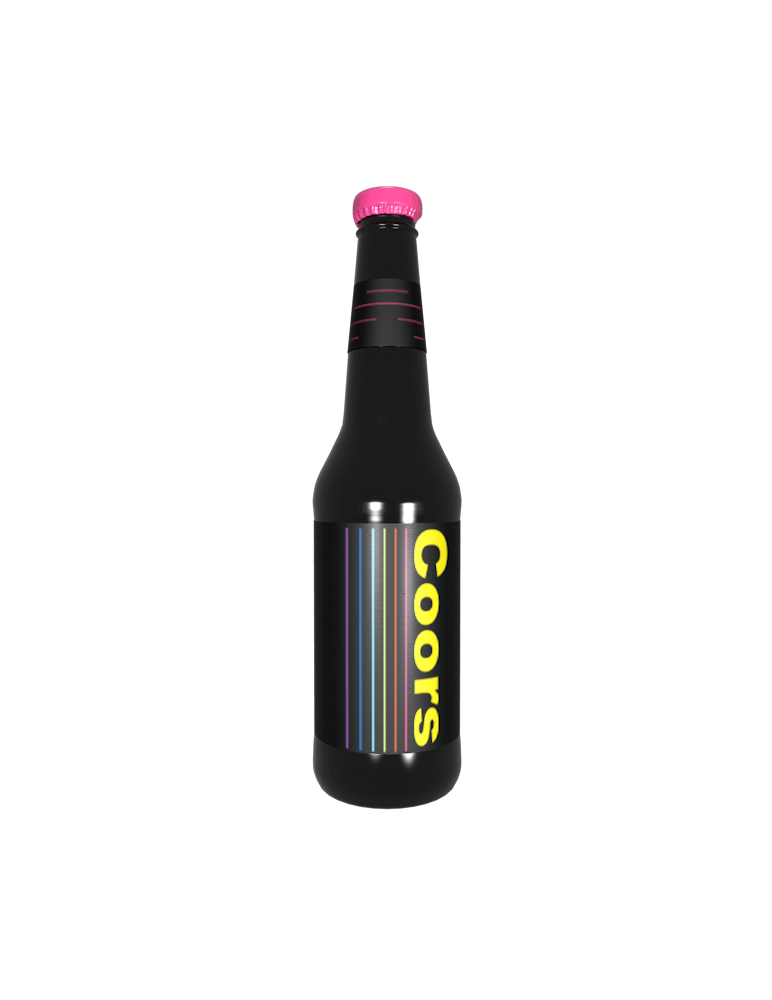
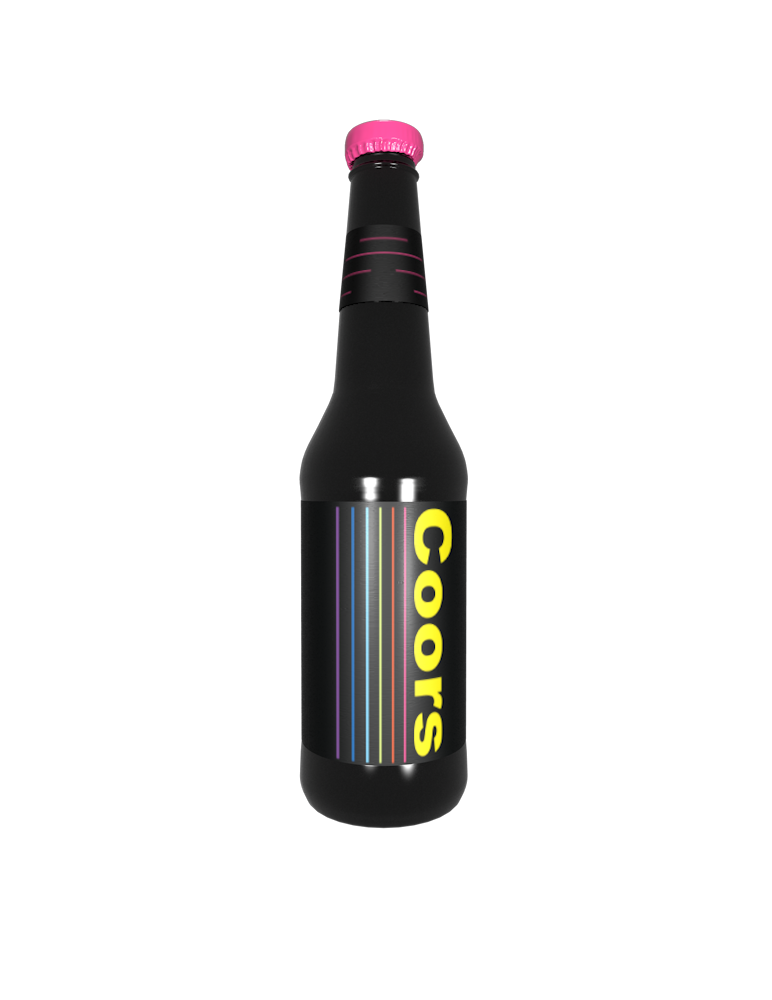
modified some of the renders to make them fit better

Changed region(s): [[0.3731, 0.093, 0.6218, 0.837]]

diff --git a/css/main.css b/css/main.css
@@ -963,7 +963,7 @@ footer ul {
 /* PRODUCTS PAGE (LARGER SCREENS) */
 
 #productsImage {
-	width: 100%;
+	width: 100vw;
 	height: auto;
 }	
 
@@ -998,15 +998,15 @@ footer ul {
 .bars {
 	z-index: 1;
 	position: absolute;
-	top:calc(20vw + 15%);
+	top:calc(12vw + 9%);
 }
 
 .bar { 
 	display: inline-block;
-	width:calc(73vw + 2em);
-	height: 1vw;
+	width:calc(75vw + 2.1em);
+	height: 0.3vw;
 	background: pink;
-	margin-bottom: 1vw;
+	margin-bottom: 0.2vw;
  }
 
  .bar p, span { 
@@ -1017,8 +1017,6 @@ footer ul {
 
 
 .desc {
-	display: inline-block;
-	width:calc(73vw + 2em);
 	height: auto;
 	background: pink;
 	margin-bottom: 1vw;
@@ -1029,8 +1027,8 @@ footer ul {
 	display: block;
 	opacity: 1;
 	text-align: center;
-	font-size: 3vw;
-	padding-top: 3%;
+	font-size: 2vw;
+	padding-top: 5%;
 	padding-bottom: 2%;
 	animation: textFadeIn 1s 0.4s ease-in both;
 }
@@ -1045,7 +1043,7 @@ footer ul {
 	margin: auto;
 	color: black;
 	opacity: 1;
-	font-size: 1.5vw;
+	font-size: 1vw;
 	padding-bottom: 3%;
 	animation: textFadeIn 1s 0.4s ease-in both;
 }
